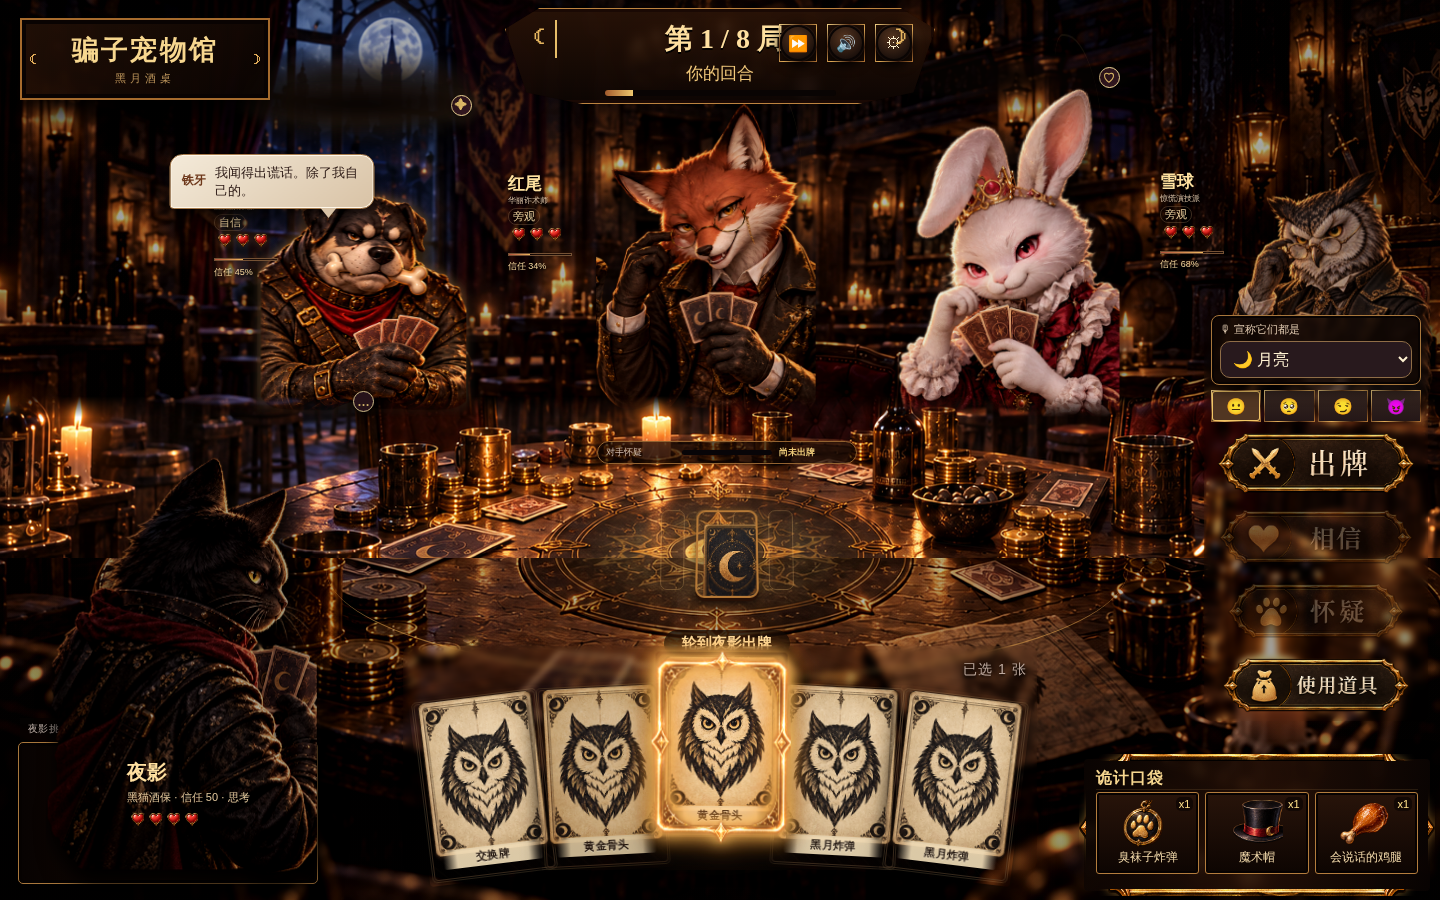
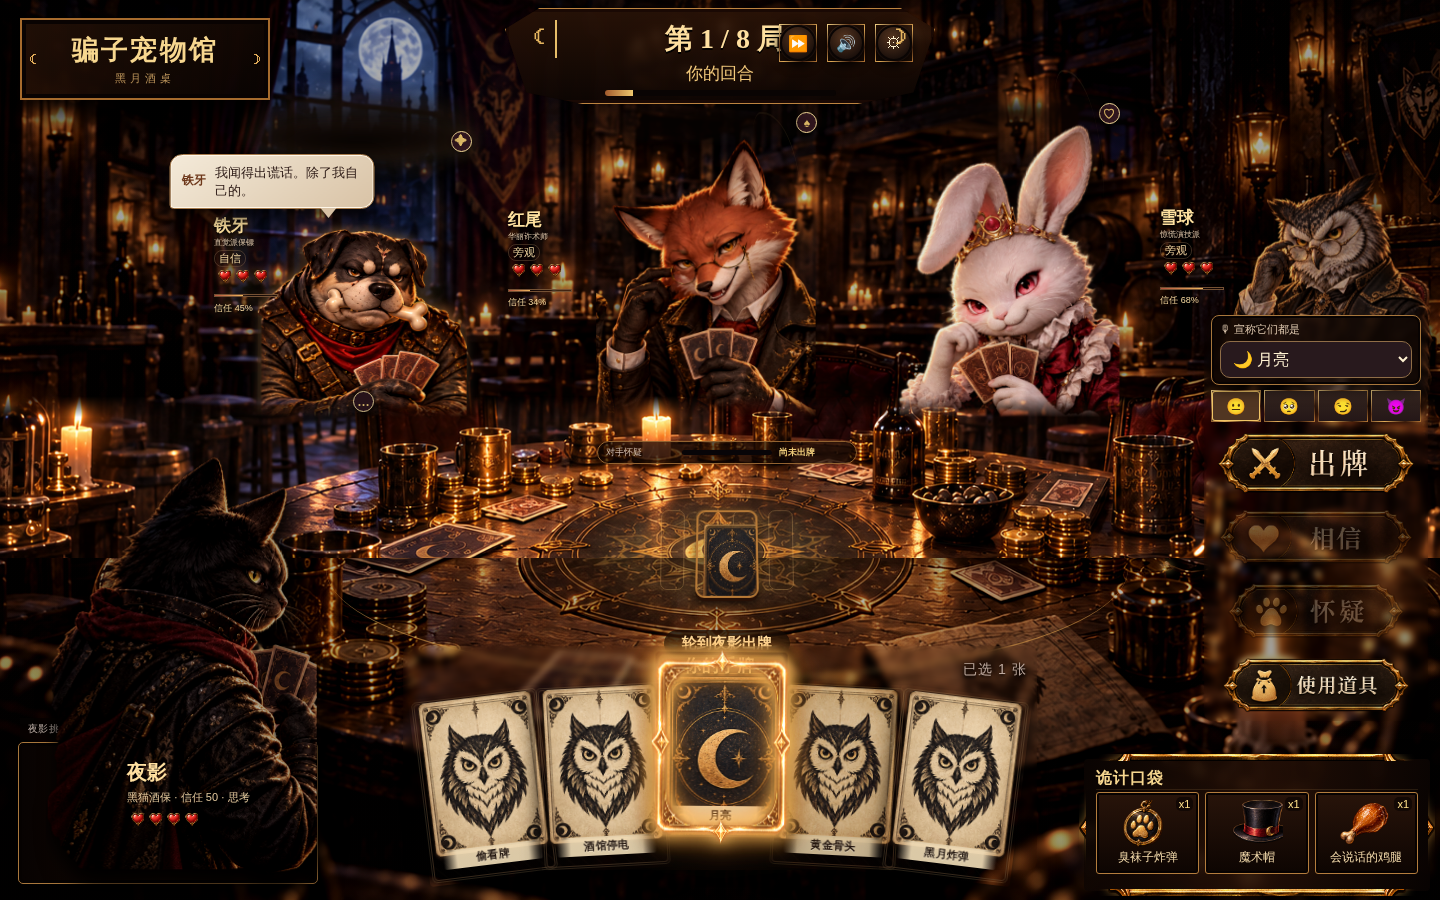
Lower battle seats to the table edge

diff --git a/styles.css b/styles.css
@@ -703,7 +703,7 @@ body.penalty-vignette:after{content:"";position:fixed;z-index:999;inset:0;pointe
 @media(min-width:900px){
   .battle .battle-table-stage{display:block;position:fixed;z-index:5;inset:0;width:100vw;height:100vh;pointer-events:none}
   .battle .battle-table-stage>.opponents{position:absolute!important;display:block!important;inset:0!important;width:100%!important;height:100%!important;margin:0!important}
-  .battle .battle-table-stage .seat-slot{position:absolute!important;top:auto!important;bottom:44vh!important;height:450px;width:255px;margin:0;translate:-50% 0;transform:none!important;transform-origin:center bottom}
+  .battle .battle-table-stage .seat-slot{position:absolute!important;top:auto!important;bottom:40vh!important;height:450px;width:255px;margin:0;translate:-50% 0;transform:none!important;transform-origin:center bottom}
   .battle .battle-table-stage .seat-slot-1{left:25%;height:445px;width:260px}.battle .battle-table-stage .seat-slot-2{left:49%;height:465px;width:260px}.battle .battle-table-stage .seat-slot-3{left:70%;height:475px;width:260px}
   .battle .battle-table-stage .seat-actor,.battle .battle-table-stage .portrait-motion{position:absolute;inset:0!important;width:100%;height:100%;translate:0 0!important;transform:none!important;transform-origin:center bottom}
   .battle .battle-table-stage .character-sprite{position:absolute;top:auto!important;bottom:0!important;left:50%;height:100%;width:auto;aspect-ratio:15/32;translate:-50% 0!important;transform-origin:center bottom}
